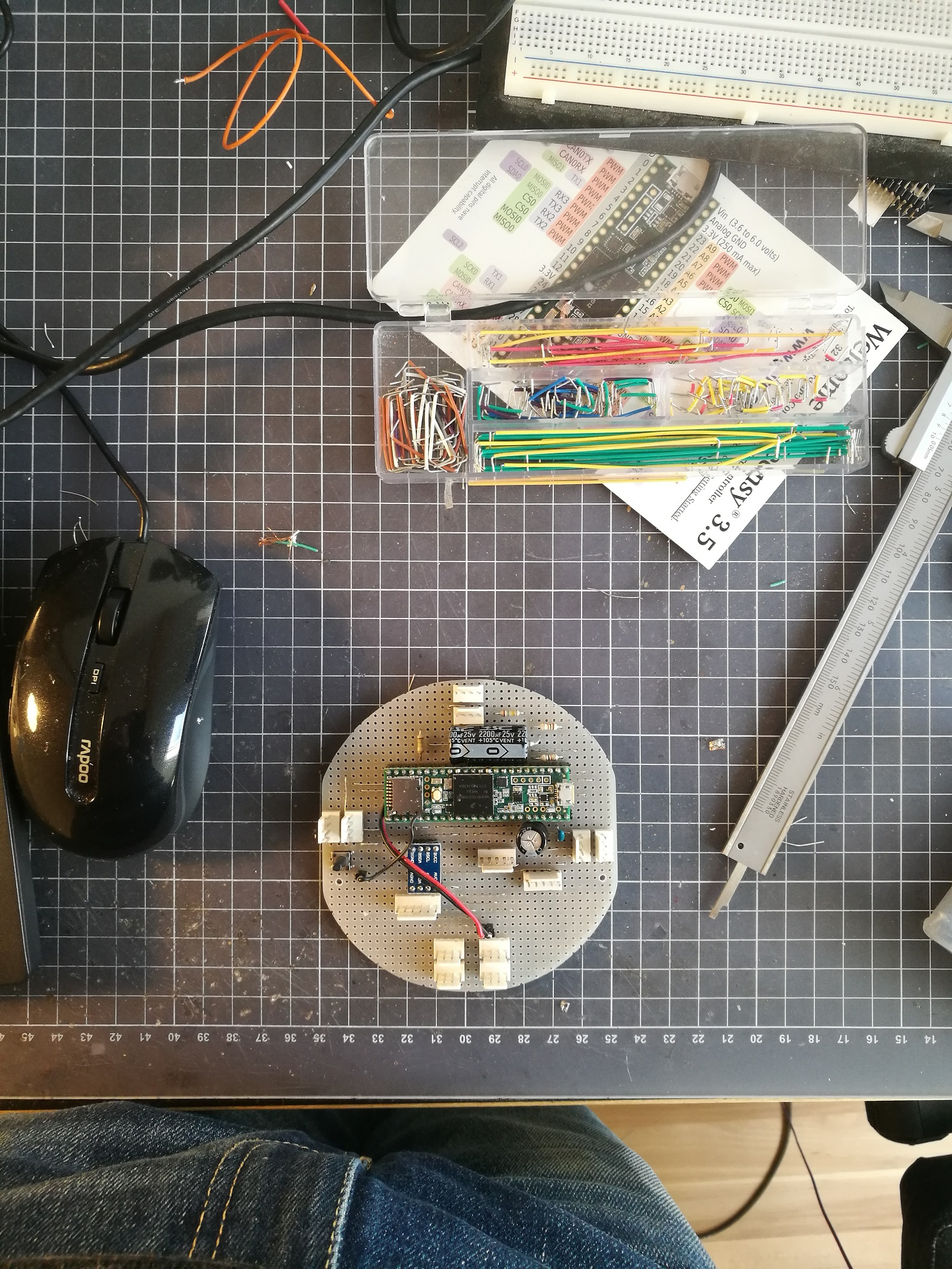
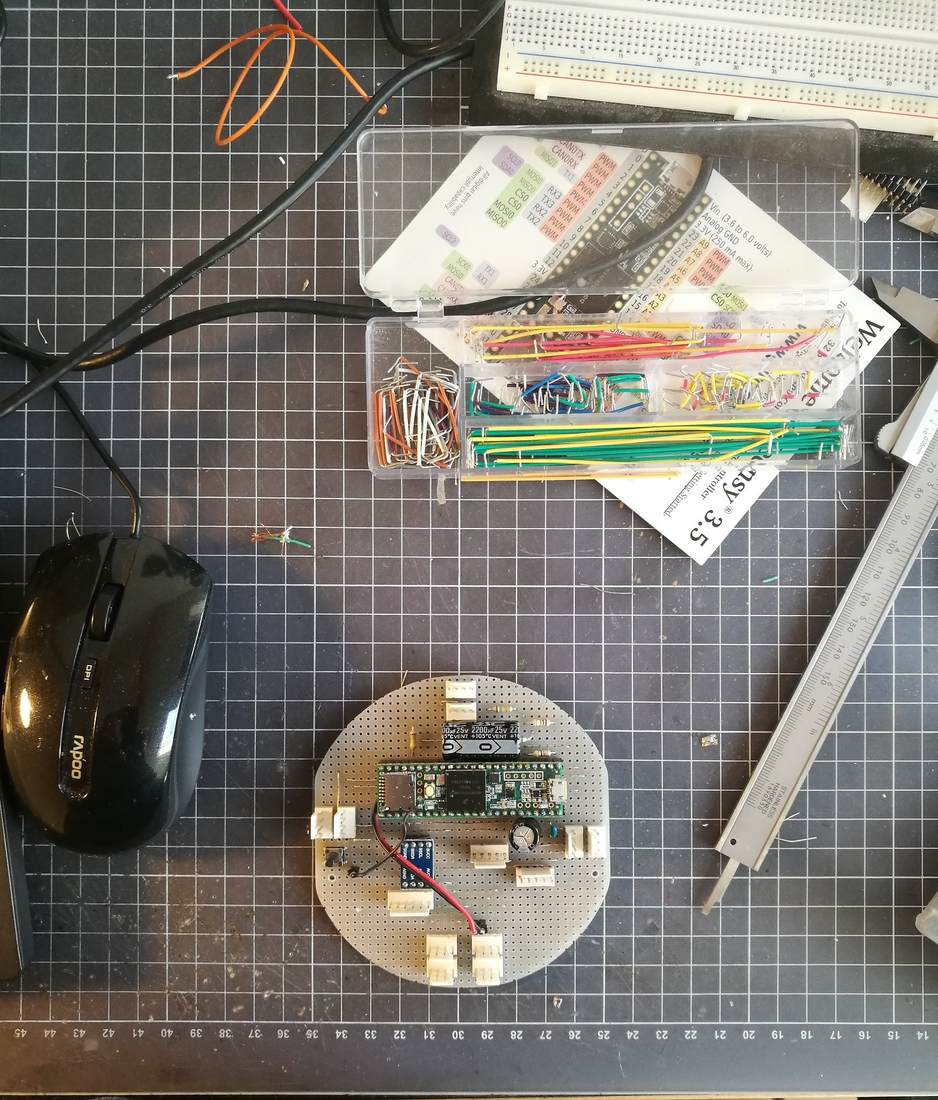
no message

diff --git a/docs/Kinematics.md b/docs/Kinematics.md
@@ -36,13 +36,13 @@ Combined with the DH parameters, the following DH matrixes define the transforma
 
 ## Forward Kinematics of a Leg
 
-With the *DH* transformation matrixes at hand, computation of the leg’s pose out of the joint angles is straight forward. The matrix representing the toe’s pose <img width=3% src="../images/image010.png"/> is 
+With the *DH* transformation matrixes at hand, computation of the leg’s pose out of the joint angles is straight forward. The matrix representing the toe’s pose <img width="10" src="../images/image010.png"/> is 
 
-&nbsp;&nbsp;&nbsp;&nbsp;<img width=20% src="../images/image011.png"/> 
+&nbsp;&nbsp;&nbsp;&nbsp;<img width="50" src="../images/image011.png"/> 
 
 By multiplying the transformation matrix with the origin (as homogeneous vector), we get the absolute coordinates of the toe point (*TP*) centre point in world coordinate system (i.e. relative to the legs’s base).
 
-&nbsp;&nbsp;&nbsp;&nbsp;<img width=15% src="../images/image012.png"/>
+&nbsp;&nbsp;&nbsp;&nbsp;<img width="50" src="../images/image012.png"/>
 
 That was easy. The tricky part comes now.
 
@@ -50,11 +50,11 @@ That was easy. The tricky part comes now.
 
 Inverse kinematics denotes the computation of all joint angles out of the toe’s position (*TP*). Since the leg has four joints, it is becomes clear that there is an infinite number of solutions for that, so I need to predefine one angle with an arbitrary definition. Having the objective in mind of moving the higher limbs of the leg as little as possible, I arbitrarily chose *θ<sub>0</sub>* and set it as angle bisector of the toe to the hip (from bird’s perspective):
 
-&nbsp;&nbsp;&nbsp;&nbsp;<img width=40% src="../images/image013.png"/>
+&nbsp;&nbsp;&nbsp;&nbsp;<img width="50" src="../images/image013.png"/>
 
 We get 
 
-&nbsp;&nbsp;&nbsp;&nbsp;<img width=25% src="../images/image014.png"/>
+&nbsp;&nbsp;&nbsp;&nbsp;<img width="50" src="../images/image014.png"/>
 
 Later on, we will need the coordinates of end of the first limb (*A*) which is <img width=15% src="../images/image015.png"/>
 

diff --git a/docs/overview.md b/docs/overview.md
@@ -35,7 +35,7 @@ The cortex board does not need much,  most of the stuff is done by the Teensy al
 **Still-Life**
 
 This is my desk
-<img src="../images/still-life.jpg"/>
+<img ewidth="300px" src="../images/still-life.jpg"/>
 
 
 **Startup Procedure** In order to have a clean startup procedure, I used a relay that switches the servo's power. By that, I could ensure that ODroid and Teensy came up properly, before switching on the servos. The full startup procedure is like this:
